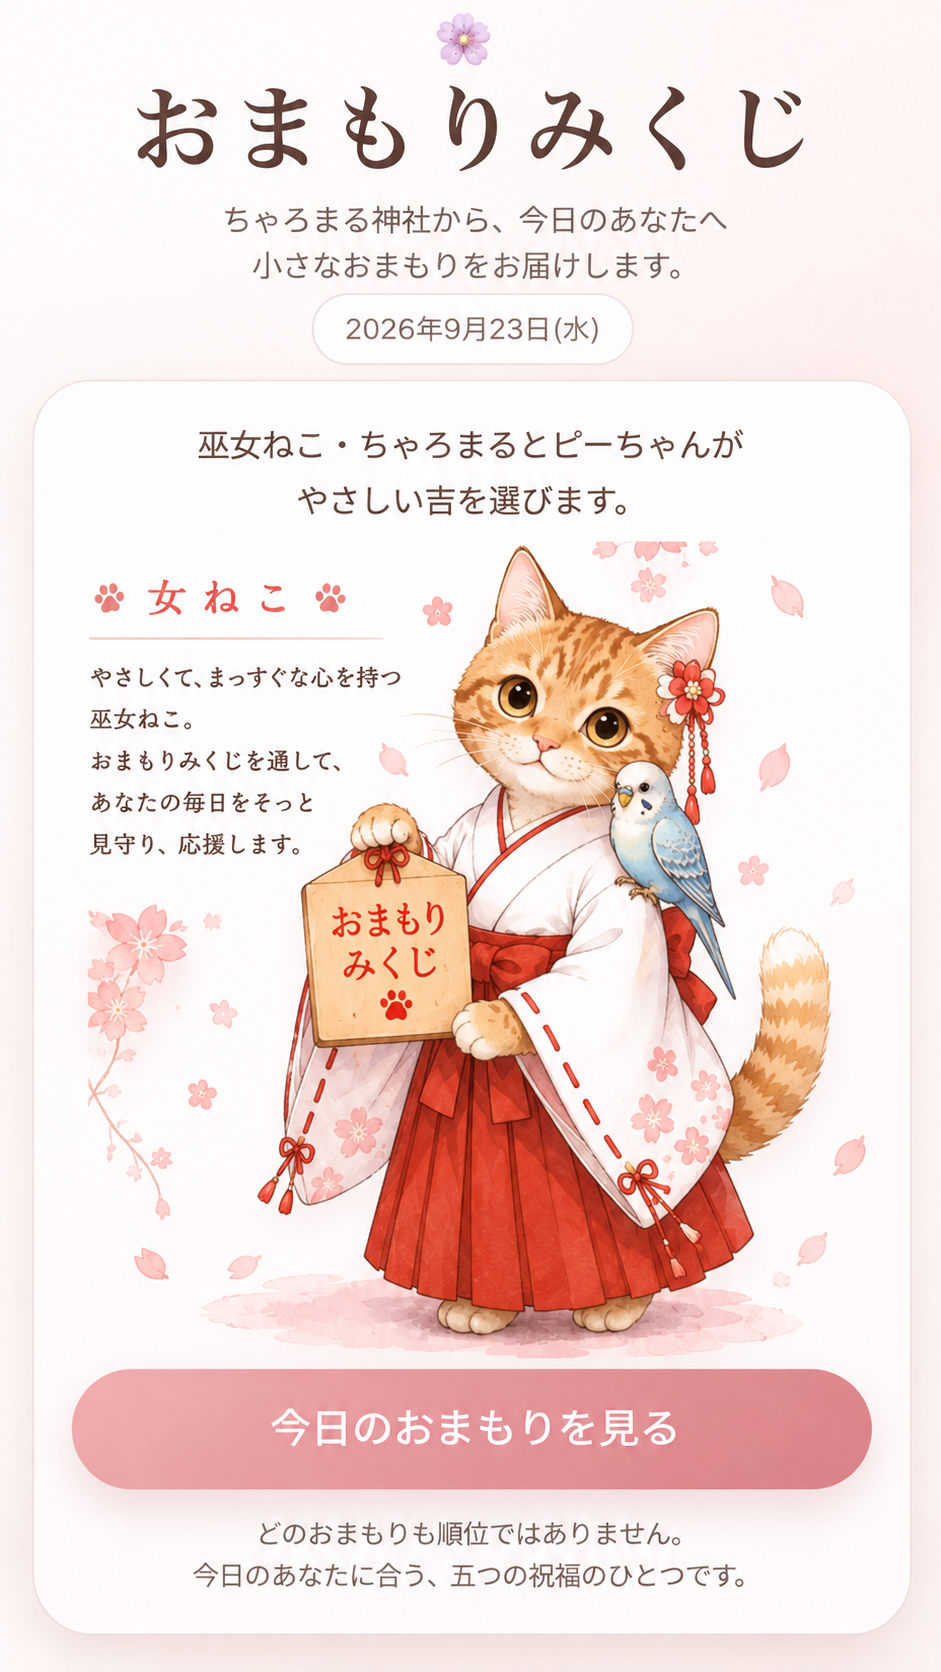
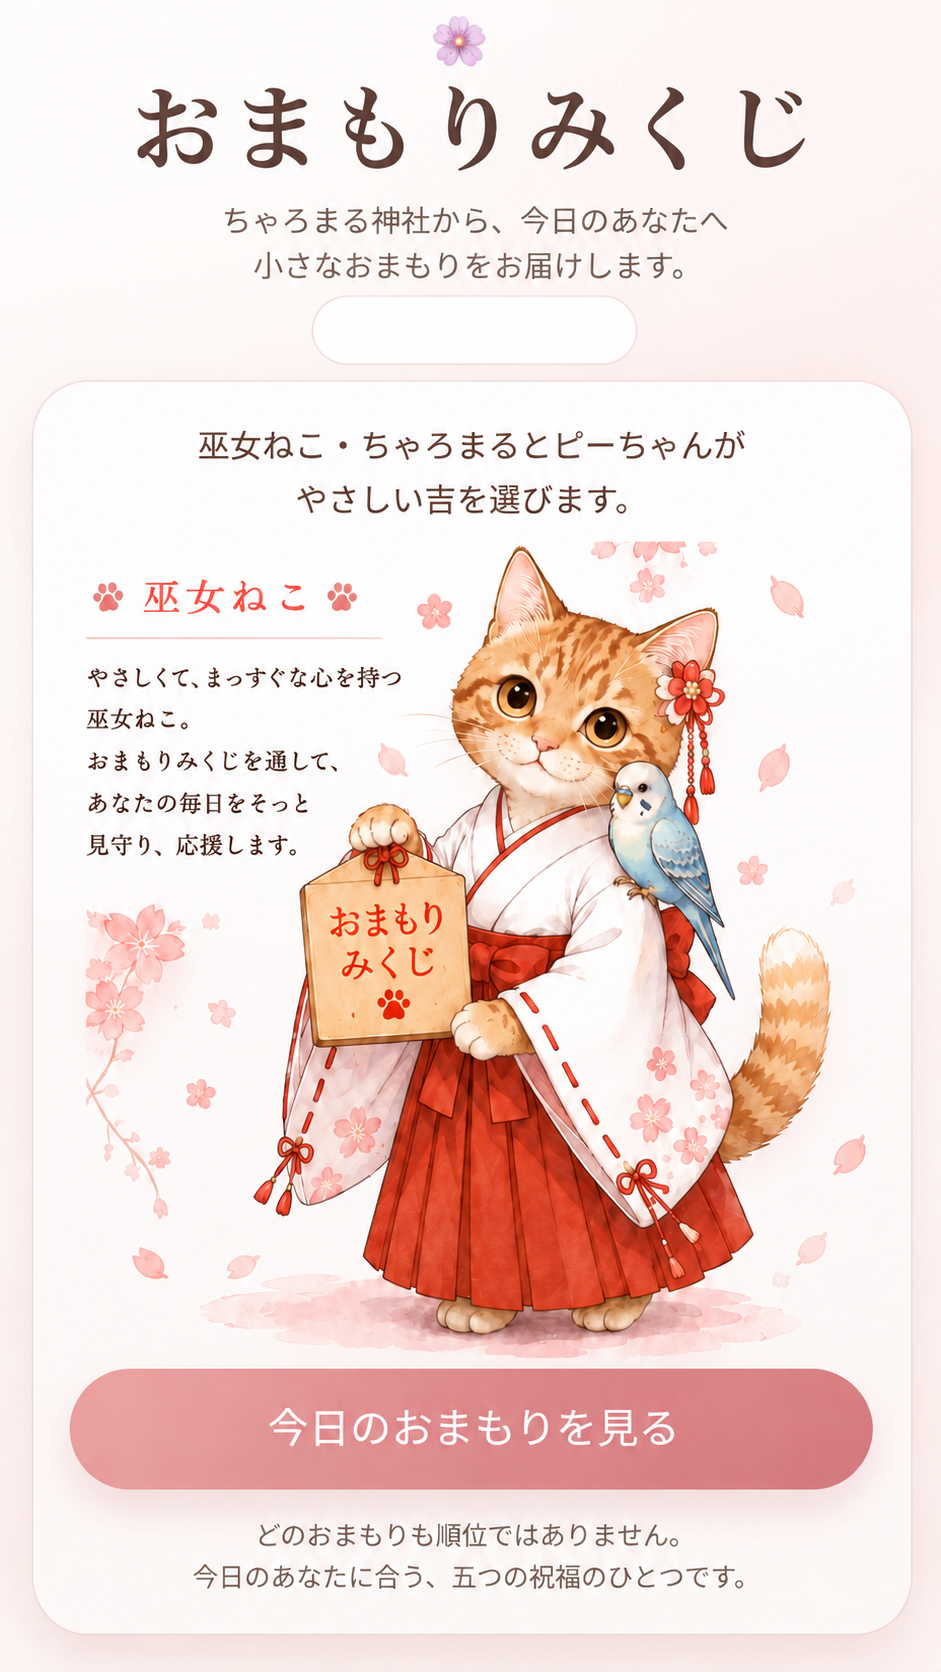
https://chatgpt.com/g/g-p-6ab30914ab5081919ffda351b5fd07a9-tiyaromarushen-she/c/6ab308f3-1980-83e8-b3fe-b310217b776e#:~:text=%E3%83%97%E3%83%AC%E3%83%BC%E3%83%B3%E3%83%86%E3%82%AD%E3%82%B9%E3%83%88-,V11%20%E3%83%88%E3%83%83%E3%83%97%E7%94%BB%E5%83%8F%E4%BF%AE%E6%AD%A3%E3%83%BB%E6%97%A5%E4%BB%98%E8%8

diff --git a/index-v10-backup.html b/index-v10-backup.html
@@ -28,13 +28,7 @@
       cursor:pointer; border-radius:28px; overflow:hidden;
       box-shadow:0 16px 36px rgba(113,66,53,.12);
     }
-    .entrance { position:relative; }
     .entrance img { display:block; width:100%; height:auto; }
-    .entrance-date {
-      position:absolute; top:19.2%; left:50%; transform:translateX(-50%);
-      width:58%; text-align:center; color:#85675e;
-      font-size:clamp(13px,3.5vw,18px); font-weight:500; line-height:1; pointer-events:none;
-    }
     .entrance:active { transform:scale(.995); }
     .result-card {
       display:none; margin-top:17px; padding:20px 17px; text-align:center;
@@ -115,7 +109,6 @@
 <main class="app">
   <button class="entrance" id="entrance" type="button" aria-label="今日のおまもりを見る">
     <img src="./omamori-top.png" alt="おまもりみくじ。巫女ねこ・ちゃろまるとピーちゃん">
-    <span class="entrance-date" id="entranceDate" aria-hidden="true"></span>
   </button>
 
   <section class="result-card" id="resultCard" aria-live="polite">
@@ -197,11 +190,6 @@ function dateKey(){
   const d=new Date();
   return `${d.getFullYear()}-${d.getMonth()+1}-${d.getDate()}`;
 }
-function displayDate(){
-  const d=new Date();
-  const weekdays=["日","月","火","水","木","金","土"];
-  return `${d.getFullYear()}年${d.getMonth()+1}月${d.getDate()}日(${weekdays[d.getDay()]})`;
-}
 function makeFortune(){
   const base=randomFrom(fortunes);
   return {date:dateKey(),name:base.name,reading:base.reading,image:base.image,
@@ -259,7 +247,6 @@ async function shareFortune(){
   }
 }
 document.addEventListener("DOMContentLoaded",()=>{
-  $("entranceDate").textContent=displayDate();
   const saved=loadFortune();
   if(saved) showFortune(saved,false);
   $("entrance").addEventListener("click",()=>showFortune(currentFortune(),true));
